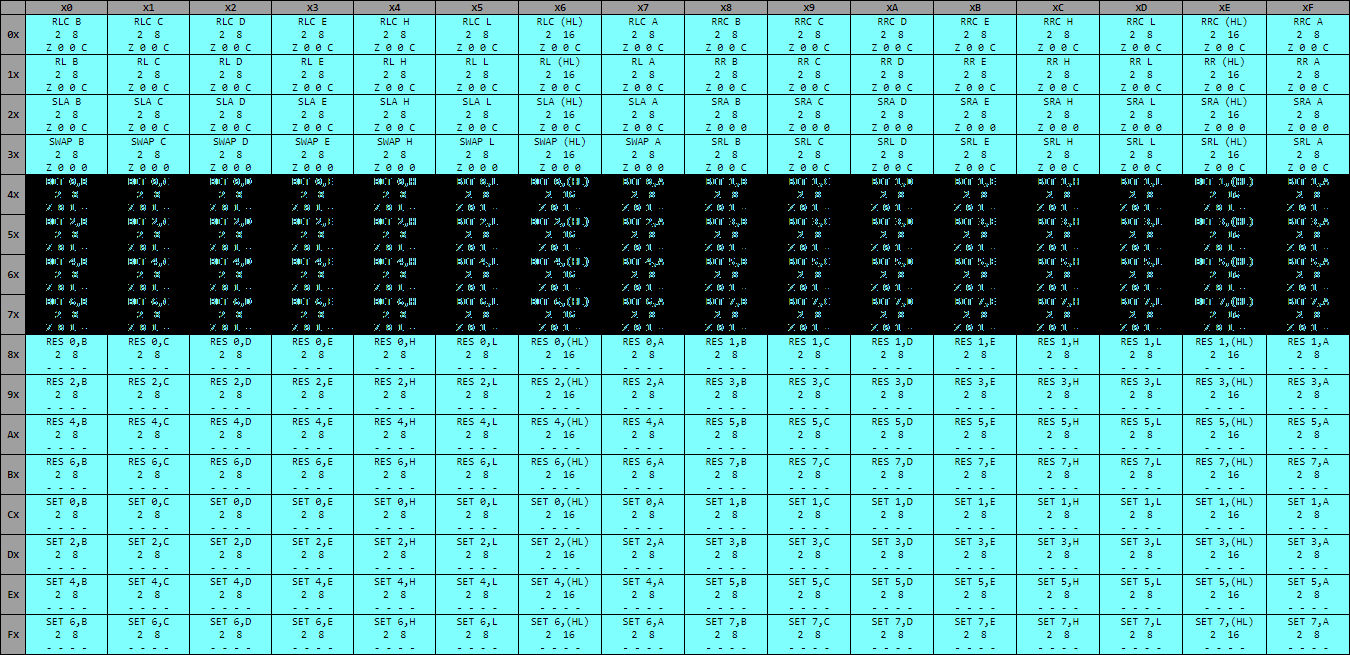
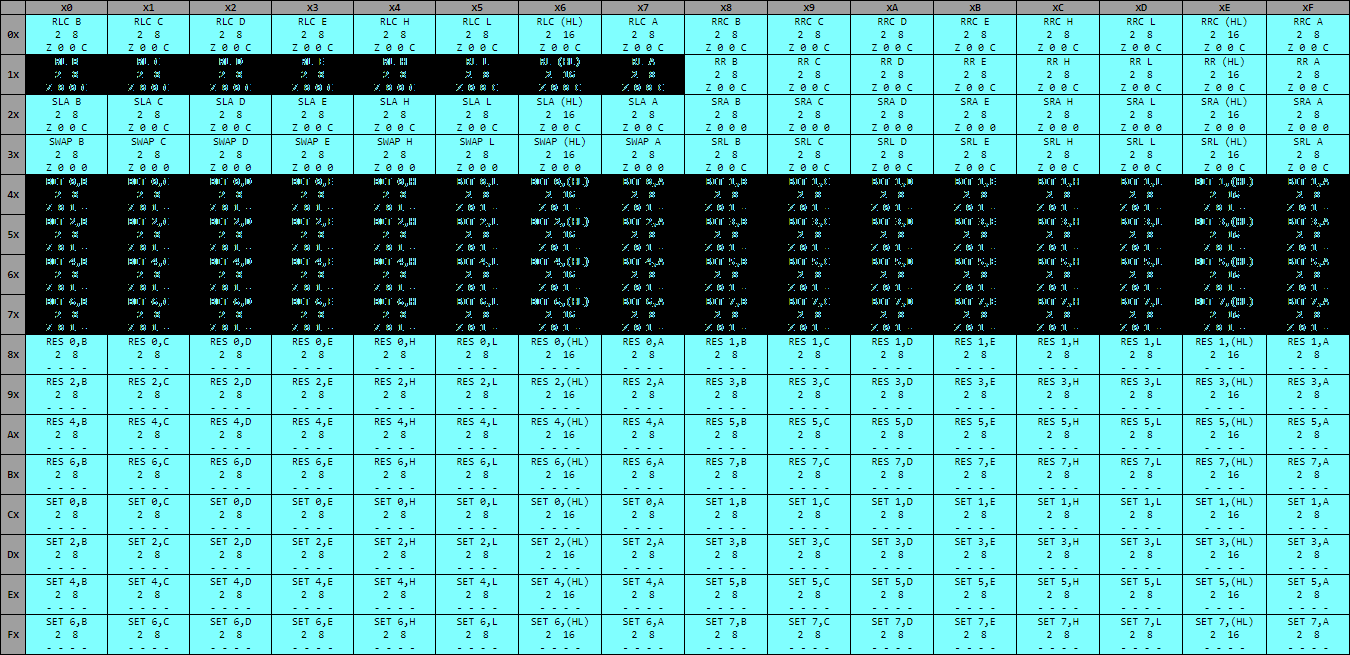
Decode enough opcodes for bootstrap ROM

Changed region(s): [[0.0, 0.0611, 0.5289, 0.1527]]

diff --git a/gbCPU.decode.c b/gbCPU.decode.c
@@ -1,6 +1,7 @@
 #include <stdio.h>
 #include "gbCPU.h"
 
+#define OP    "%s"
 #define OPL   "%s %d"
 #define OPR   "%s %s"
 #define OPB   "%s %0#4x"
@@ -58,34 +59,6 @@ void DecodeExecute(BYTE opcode, FILE *output)
         case 0x33: fprintf(output, OPR, "INC", "SP");
                    break;                                      
 
-        // Load immediate byte into register
-        case 0x06: fprintf(output, OPRB, "LD", "B", Fetch(output));
-                   break;
-        case 0x0e: fprintf(output, OPRB, "LD", "C", Fetch(output));
-                   break;           
-        case 0x16: fprintf(output, OPRB, "LD", "D", Fetch(output));
-                   break;
-        case 0x1e: fprintf(output, OPRB, "LD", "E", Fetch(output));
-                   break;
-        case 0x26: fprintf(output, OPRB, "LD", "H", Fetch(output));
-                   break;
-        case 0x2e: fprintf(output, OPRB, "LD", "L", Fetch(output));
-                   break;
-        case 0x36: fprintf(output, OPRB, "LD", "(HL)", Fetch(output));
-                   break;
-        case 0x3e: fprintf(output, OPRB, "LD", "A", Fetch(output));
-                   break;                                                                                               
-
-        // Decrement word
-        case 0x0b: fprintf(output, OPR, "DEC", "BC");
-                   break;
-        case 0x1b: fprintf(output, OPR, "DEC", "DE");
-                   break;
-        case 0x2b: fprintf(output, OPR, "DEC", "HL");
-                   break;
-        case 0x3b: fprintf(output, OPR, "DEC", "SP");
-                   break;                                   
-
         // Increment byte
         case 0x04: fprintf(output, OPR, "INC", "B");
                    break;
@@ -120,7 +93,41 @@ void DecodeExecute(BYTE opcode, FILE *output)
         case 0x35: fprintf(output, OPR, "DEC", "(HL)");
                    break;
         case 0x3d: fprintf(output, OPR, "DEC", "A");
-                   break;                                                                                                                                     
+                   break;                      
+
+        // Load immediate byte into register
+        case 0x06: fprintf(output, OPRB, "LD", "B", Fetch(output));
+                   break;
+        case 0x0e: fprintf(output, OPRB, "LD", "C", Fetch(output));
+                   break;           
+        case 0x16: fprintf(output, OPRB, "LD", "D", Fetch(output));
+                   break;
+        case 0x1e: fprintf(output, OPRB, "LD", "E", Fetch(output));
+                   break;
+        case 0x26: fprintf(output, OPRB, "LD", "H", Fetch(output));
+                   break;
+        case 0x2e: fprintf(output, OPRB, "LD", "L", Fetch(output));
+                   break;
+        case 0x36: fprintf(output, OPRB, "LD", "(HL)", Fetch(output));
+                   break;
+        case 0x3e: fprintf(output, OPRB, "LD", "A", Fetch(output));
+                   break;                                                                                               
+
+        // Decrement word
+        case 0x0b: fprintf(output, OPR, "DEC", "BC");
+                   break;
+        case 0x1b: fprintf(output, OPR, "DEC", "DE");
+                   break;
+        case 0x2b: fprintf(output, OPR, "DEC", "HL");
+                   break;
+        case 0x3b: fprintf(output, OPR, "DEC", "SP");
+                   break;                                                                                                                                                                     
+
+        // Rotate register A left / right through carry flag
+        case 0x17: fprintf(output, OP, "RLA");
+                   break;
+        case 0x1F: fprintf(output, OP, "RRA");
+                   break;
 
         // Jump relative to current PC
         case 0x18: fprintf(output, OPL, "JR", (S_BYTE)Fetch(output));
@@ -276,6 +283,24 @@ void DecodeExecute(BYTE opcode, FILE *output)
         case 0x7f: fprintf(output, OPRR, "LD", "A", "A");
                    break;  
 
+        // Add byte to register A and store result in register A
+        case 0x80: fprintf(output, OPRR, "ADD", "A", "B");
+                   break;
+        case 0x81: fprintf(output, OPRR, "ADD", "A", "C");
+                   break;
+        case 0x82: fprintf(output, OPRR, "ADD", "A", "D");
+                   break;
+        case 0x83: fprintf(output, OPRR, "ADD", "A", "E");
+                   break;
+        case 0x84: fprintf(output, OPRR, "ADD", "A", "H");
+                   break;
+        case 0x85: fprintf(output, OPRR, "ADD", "A", "L");
+                   break;
+        case 0x86: fprintf(output, OPRR, "ADD", "A", "(HL)");
+                   break;
+        case 0x87: fprintf(output, OPRR, "ADD", "A", "A");
+                   break;                                                         
+
         // Subtract register / memory
         case 0x90: fprintf(output, OPR, "SUB", "B");
                    break;
@@ -310,6 +335,58 @@ void DecodeExecute(BYTE opcode, FILE *output)
         case 0xae: fprintf(output, OPR, "XOR", "(HL)");
                    break;
         case 0xaf: fprintf(output, OPR, "XOR", "A");
+                   break;
+
+        // Compare byte with register A
+        case 0xb8: fprintf(output, OPR, "CP", "B");
+                   break;
+        case 0xb9: fprintf(output, OPR, "CP", "C");
+                   break;
+        case 0xba: fprintf(output, OPR, "CP", "D");
+                   break;
+        case 0xbb: fprintf(output, OPR, "CP", "E");
+                   break;
+        case 0xbc: fprintf(output, OPR, "CP", "H");
+                   break;
+        case 0xbd: fprintf(output, OPR, "CP", "L");
+                   break;
+        case 0xbe: fprintf(output, OPR, "CP", "(HL)");
+                   break;
+        case 0xbf: fprintf(output, OPR, "CP", "A");
+                   break;                                                                                                                  
+
+        // Pop word off of stack
+        case 0xc1: fprintf(output, OPR, "POP", "BC");
+                   break;
+        case 0xd1: fprintf(output, OPR, "POP", "DE");
+                   break;
+        case 0xe1: fprintf(output, OPR, "POP", "HL");
+                   break;
+        case 0xf1: fprintf(output, OPR, "POP", "AF");
+                   break;                                      
+
+        // Push word onto stack
+        case 0xc5: fprintf(output, OPR, "PUSH", "BC");
+                   break;
+        case 0xd5: fprintf(output, OPR, "PUSH", "DE");
+                   break;
+        case 0xe5: fprintf(output, OPR, "PUSH", "HL");
+                   break;
+        case 0xf5: fprintf(output, OPR, "PUSH", "AF");
+                   break;                                      
+
+        // Return
+        case 0xc9: fprintf(output, OP, "RET");
+                   break;
+        case 0xd9: fprintf(output, OP, "RETI");
+                   break;
+        case 0xc8: fprintf(output, OPR, "RET", "Z");
+                   break;
+        case 0xd8: fprintf(output, OPR, "RET", "C");
+                   break;
+        case 0xc0: fprintf(output, OPR, "RET", "NZ");
+                   break;
+        case 0xd0: fprintf(output, OPR, "RET", "NC");
                    break;
 
         // Opcode cb is a prefix for many instructions. Fetch next opcode and decode to determine
@@ -357,6 +434,24 @@ void DecodeExecuteCB(BYTE opcode, FILE *output)
 {
     switch (opcode)
     {
+        // Rotate left through carry
+        case 0x10: fprintf(output, OPR, "RL", "B");
+                   break;
+        case 0x11: fprintf(output, OPR, "RL", "C");
+                   break;
+        case 0x12: fprintf(output, OPR, "RL", "D");
+                   break;
+        case 0x13: fprintf(output, OPR, "RL", "E");
+                   break;
+        case 0x14: fprintf(output, OPR, "RL", "H");
+                   break;
+        case 0x15: fprintf(output, OPR, "RL", "L");
+                   break;
+        case 0x16: fprintf(output, OPR, "RL", "(HL)");
+                   break;
+        case 0x17: fprintf(output, OPR, "RL", "A");
+                   break;                                                                                                                  
+
         // Test bit 0
         case 0x40: fprintf(output, OPRR, "BIT", "0", "B");
                    break;
